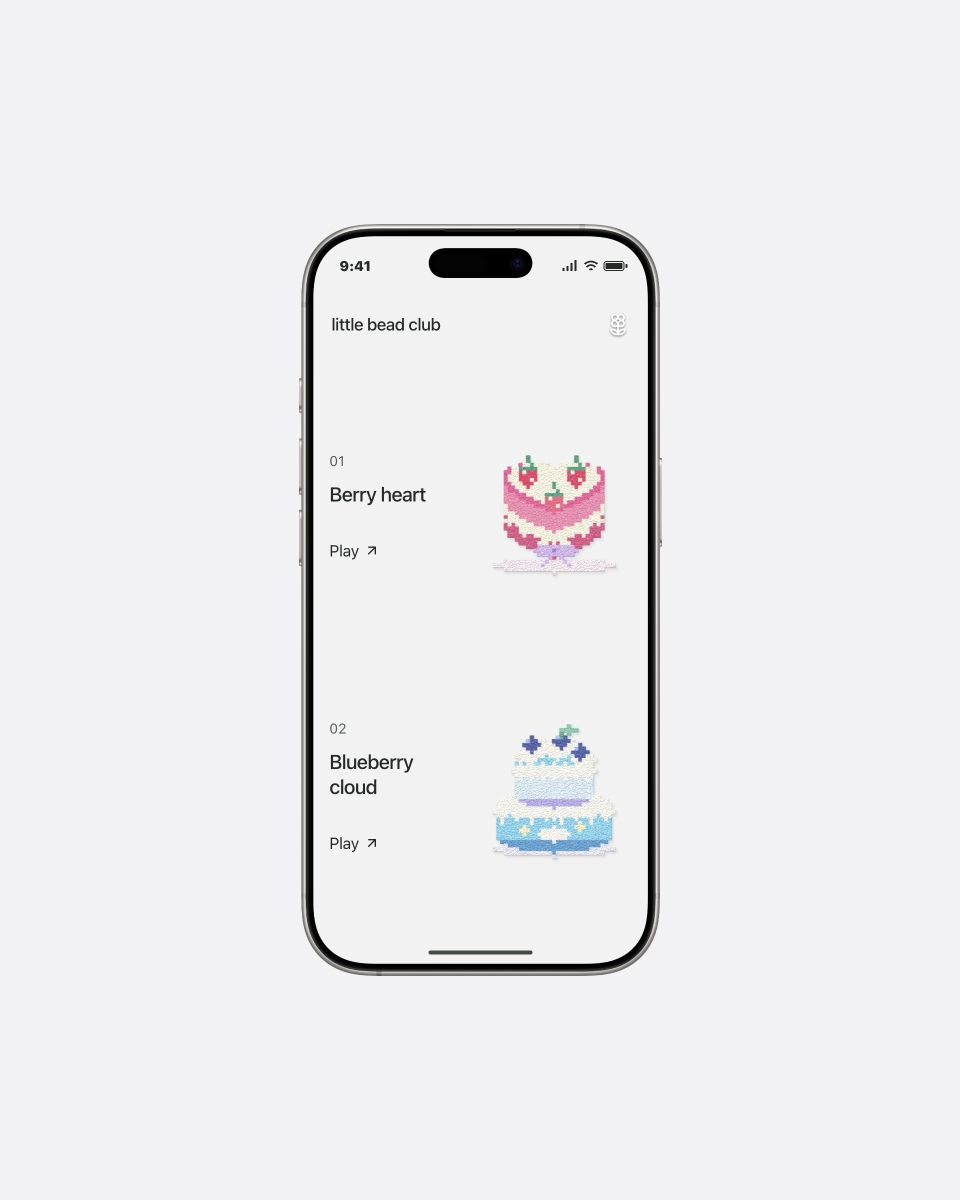
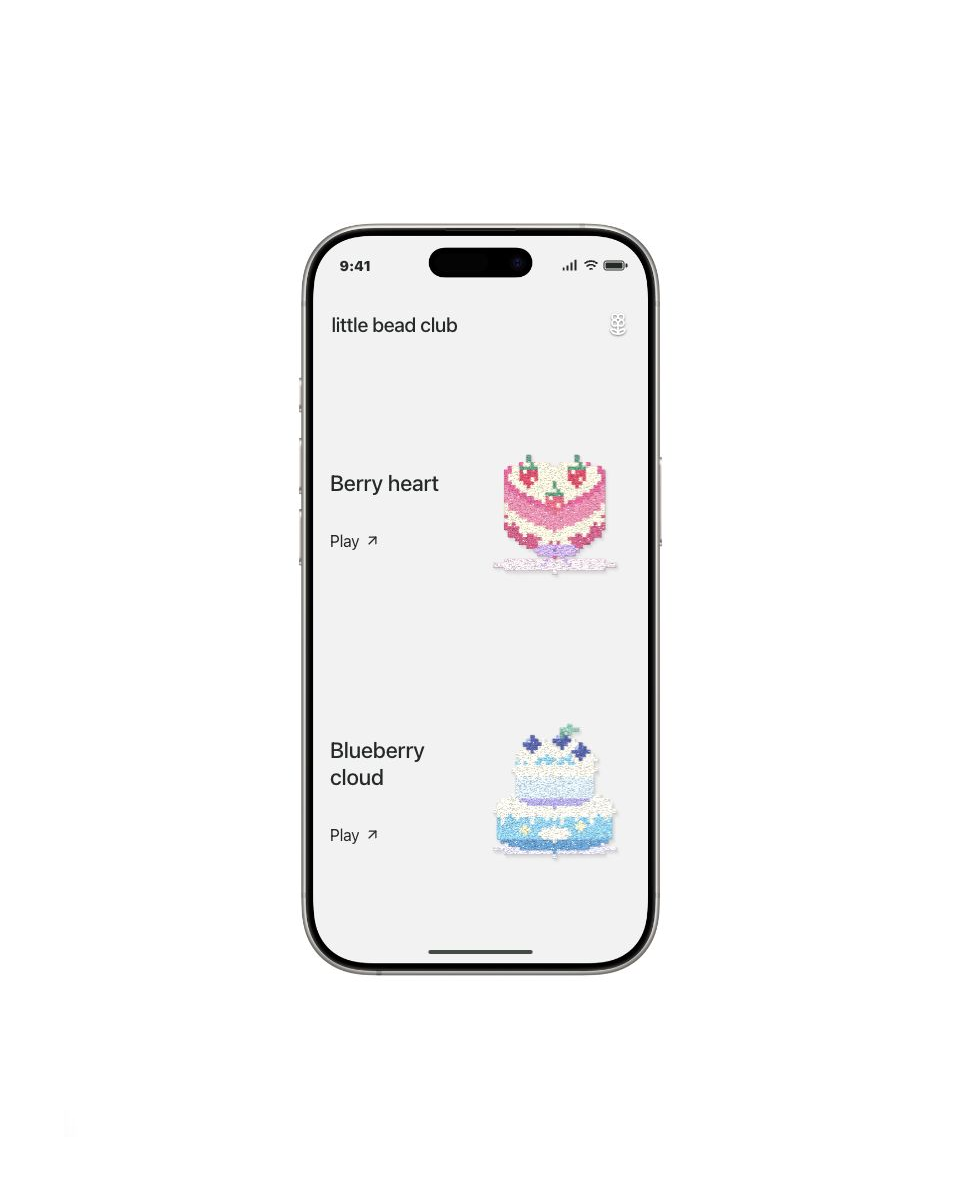
Polish bead material depth and finish minimal playback UI

diff --git a/components/play/bead-club/bead-club.tsx b/components/play/bead-club/bead-club.tsx
@@ -4,7 +4,7 @@ import * as React from "react";
 import * as THREE from "three";
 import { RoomEnvironment } from "three/examples/jsm/environments/RoomEnvironment.js";
 import { AnimatePresence, motion, useReducedMotion } from "framer-motion";
-import { ArrowLeft, ArrowUpRight, Flower2 } from "lucide-react";
+import { ArrowLeft, ArrowUpRight, Flower2, Pause, Play } from "lucide-react";
 
 export type BeadClubProps = {
   /** Plays a quiet demonstration on gallery cards. */
@@ -422,7 +422,7 @@ function terryGrainSurface() {
     normal.data[i + 1] = (ny / length * .5 + .5) * 255;
     normal.data[i + 2] = (1 / length * .5 + .5) * 255; normal.data[i + 3] = 255;
     roughness.data[i] = roughness.data[i + 1] = roughness.data[i + 2] = 255; roughness.data[i + 3] = 255;
-    pigment[y * width + x] = 1 + (h - mean) * .38;
+    pigment[y * width + x] = 1 + (h - mean) * .18;
   }
   ctx.putImageData(normal, 0, 0);
   const normalMap = new THREE.CanvasTexture(pile); normalMap.generateMipmaps = false; normalMap.minFilter = THREE.LinearFilter;
@@ -442,7 +442,7 @@ function terryGrainSurface() {
     facetCtx.fillStyle = `rgb(${Math.round((nx / length * .5 + .5) * 255)},${Math.round((ny / length * .5 + .5) * 255)},${Math.round((1 / length * .5 + .5) * 255)})`;
     for (const target of [sparkleCtx, facetCtx]) {
       const padding = target === facetCtx ? 2 : 0;
-      target.beginPath(); target.ellipse(px, py, 2 + (seed % 5) * .25 + padding, 1.05 + padding, seed % 628 / 100, 0, Math.PI * 2); target.fill();
+      target.beginPath(); target.ellipse(px, py, (seed % 23 === 0 ? 5.5 : 3 + (seed % 5) * .25) + padding, 1.7 + padding, seed % 628 / 100, 0, Math.PI * 2); target.fill();
     }
   }
   const sparkleMap = new THREE.CanvasTexture(sparkleCanvas); sparkleMap.generateMipmaps = false; sparkleMap.minFilter = THREE.LinearFilter;
@@ -513,7 +513,7 @@ function physicalMaterials(art: Artwork): BeadMaterials {
     clearcoat: 1, clearcoatMap: glints.sparkle, clearcoatRoughness: .2,
     clearcoatNormalMap: glints.sparkleNormal, clearcoatNormalScale: new THREE.Vector2(1, 1),
   }) : terry ? new THREE.MeshPhysicalMaterial({
-    map, normalMap: surface.normal, normalScale: new THREE.Vector2(1, 1),
+    map, normalMap: surface.normal, normalScale: new THREE.Vector2(.85, .85),
     color: new THREE.Color(1.23, 1.23, 1.23), roughness: 1, metalness: 0, specularIntensity: .06,
     clearcoat: 1, clearcoatMap: glints.sparkle, clearcoatRoughness: .2,
     clearcoatNormalMap: glints.sparkleNormal, clearcoatNormalScale: new THREE.Vector2(1, 1),
@@ -550,7 +550,7 @@ function getBeadStudio() {
   light.shadow.mapSize.set(512, 512); light.shadow.bias = -.0002; light.shadow.normalBias = .03; light.shadow.radius = 3.5;
   scene.add(light);
   const mesh = new THREE.Mesh(new THREE.BufferGeometry(), new THREE.MeshPhysicalMaterial()); mesh.castShadow = true; mesh.receiveShadow = true; scene.add(mesh);
-  const floor = new THREE.Mesh(new THREE.PlaneGeometry(70, 70), new THREE.ShadowMaterial({ opacity: .12 })); floor.position.z = -.12; floor.receiveShadow = true; scene.add(floor);
+  const floor = new THREE.Mesh(new THREE.PlaneGeometry(70, 70), new THREE.ShadowMaterial({ opacity: .12 })); floor.position.z = -.16; floor.receiveShadow = true; scene.add(floor);
   const camera = new THREE.OrthographicCamera(-23, 23, 23, -23, .1, 180); camera.position.set(0, 0, 95); camera.up.set(0, 1, 0); camera.lookAt(0, 0, 0);
   beadStudio = { renderer, scene, camera, mesh, materials: new Map(), completed: new Map() };
   return beadStudio;
@@ -569,7 +569,7 @@ function drawPhysicalBeads(canvas: HTMLCanvasElement, art: Artwork, count: numbe
   if (!geometry) {
     const uv = (vertices: number[], index: number) => new THREE.Vector2((vertices[index * 3] + 20) / 40, (vertices[index * 3 + 1] + 21) / 42);
     geometry = new THREE.ExtrudeGeometry(fusedShapes(art.beads.slice(0, count)), {
-      depth: .26, curveSegments: 3, bevelEnabled: true, bevelThickness: .07, bevelSize: .1, bevelSegments: 4, steps: 1,
+      depth: .34, curveSegments: 3, bevelEnabled: true, bevelThickness: .13, bevelSize: .14, bevelSegments: 4, steps: 1,
       UVGenerator: { generateTopUV: (_g, vertices, ...indices) => indices.map(i => uv(vertices, i)), generateSideWallUV: (_g, vertices, ...indices) => indices.map(i => uv(vertices, i)) },
     });
     if (count === art.beads.length) studio.completed.set(art.id, geometry);
@@ -634,12 +634,12 @@ function Replay({ art, onBack, reduced }: { art: Artwork; onBack: () => void; re
     <div className="bc-board"><BeadArt art={art} count={Math.floor(progress * art.beads.length)} animated={!reduced && playing} /></div>
     <div className="bc-detail-caption"><h2>{art.name}</h2>
     <div className="bc-playback">
-      <button className="bc-play-button" aria-label="Play" aria-pressed={playing} aria-describedby={statusId} onClick={() => {
+      <button className="bc-play-button" aria-label={playing ? "Pause" : progress >= 1 ? "Replay" : "Play"} aria-pressed={playing} aria-describedby={statusId} onClick={() => {
         if (progress >= 1) { setProgress(0); setPlaying(true); }
         else setPlaying(value => !value);
       }}>
-        <svg className="bc-play-outline" viewBox="0 0 60 60" aria-hidden="true"><circle cx="30" cy="30" r="28.5" fill="none" stroke="#fff" strokeOpacity=".72" strokeWidth="1.5" /><circle className="bc-play-progress" cx="30" cy="30" r="28.5" fill="none" stroke="#3c5044" strokeWidth="2" pathLength="1" strokeDasharray="1" strokeDashoffset={1 - progress} strokeLinecap="round" transform="rotate(-90 30 30)" /></svg>
-        <svg className="bc-play-symbol" width="24" height="24" viewBox="0 0 24 24" aria-hidden="true"><path d="M8 5.8c0-.8.9-1.3 1.6-.9l10.1 6.2a1 1 0 0 1 0 1.8L9.6 19.1c-.7.4-1.6-.1-1.6-.9Z" fill="currentColor" /></svg>
+        <svg className="bc-play-outline" viewBox="0 0 60 60" aria-hidden="true"><circle cx="30" cy="30" r="28.5" fill="none" stroke="#78827b" strokeWidth="1.5" /><circle className="bc-play-progress" cx="30" cy="30" r="28.5" fill="none" stroke="#3c5044" strokeWidth="2" pathLength="1" strokeDasharray="1" strokeDashoffset={1 - progress} strokeLinecap="round" transform="rotate(-90 30 30)" /></svg>
+        {playing ? <Pause className="bc-play-symbol" size={22} fill="currentColor" aria-hidden="true" /> : <Play className="bc-play-symbol" size={23} fill="currentColor" aria-hidden="true" />}
       </button>
       <span className="bc-sr-only" id={statusId} role="status">{progress >= 1 ? "Pattern complete." : playing ? "Playing pattern animation." : "Animation paused."}</span>
     </div></div>
@@ -683,8 +683,8 @@ export function BeadClub({ loop = false, className }: BeadClubProps) {
         <div className="bc-collection" inert={!!selected}>
           <header className="bc-header"><span>little bead club</span><Flower2 className="bc-flower" size={24} strokeWidth={1.8} aria-hidden="true" /></header>
           <div className="bc-list" aria-label="Bead collection">
-            {artworks.map((art, index) => <button className="bc-card" key={art.id} onClick={event => { lastCard.current = event.currentTarget; setSelectedId(art.id); }} aria-label={`Open ${art.name}`}>
-              <div className="bc-card-copy"><span className="bc-number">{String(index + 1).padStart(2, "0")}</span><h2>{art.name}</h2><span className="bc-card-link">Play <ArrowUpRight size={16} /></span></div>
+            {artworks.map(art => <button className="bc-card" key={art.id} onClick={event => { lastCard.current = event.currentTarget; setSelectedId(art.id); }} aria-label={`Open ${art.name}`}>
+              <div className="bc-card-copy"><h2>{art.name}</h2><span className="bc-card-link">Play <ArrowUpRight size={16} /></span></div>
               <div className="bc-art-panel"><BeadArt art={art} /></div>
             </button>)}
           </div>
@@ -709,11 +709,11 @@ const styles = `
 
 .bc-status{height:55px;position:relative;display:flex;align-items:center;justify-content:space-between;padding:4px clamp(15px,6cqw,24px) 0 clamp(16px,6.7cqw,26px);z-index:12;font-size:14px;font-weight:600;color:#242a26;background:transparent}.bc-indicators{display:flex;align-items:center;gap:5px}.bc-battery{width:21px;height:10px;border-radius:3px;border:1px solid currentColor;position:relative}.bc-battery:before{content:'';position:absolute;inset:1px;background:currentColor;border-radius:1px}.bc-battery:after{content:'';position:absolute;width:2px;height:4px;right:-4px;top:2px;background:currentColor;border-radius:1px}
 .bc-header::before,.bc-detail-nav::before{content:'';position:absolute;left:0;right:0;top:-55px;bottom:-28px;z-index:-1;background:transparent;backdrop-filter:blur(14px);-webkit-backdrop-filter:blur(14px);mask-image:linear-gradient(#000 0%,#000 68%,transparent 100%);-webkit-mask-image:linear-gradient(#000 0%,#000 68%,transparent 100%);pointer-events:none}
-.bc-screen[data-detail="true"] .bc-collection{visibility:hidden}.bc-collection{position:relative;height:calc(100% - 55px);display:flex;flex-direction:column}.bc-header{position:absolute;left:0;right:0;top:0;z-index:8;min-height:78px;color:#242a26;padding:14px 18px 26px;display:flex;align-items:center;justify-content:space-between;gap:8px;font-size:1.0625rem;font-weight:500;letter-spacing:-.35px}.bc-flower{flex-shrink:0;color:#fff;filter:drop-shadow(0 1px 1px #28362a99)}.bc-list{flex:1;min-height:0;overflow:auto;overscroll-behavior:contain;padding:94px 16px 72px;scrollbar-width:none;scroll-padding:16px 0 72px}.bc-list::-webkit-scrollbar{display:none}
-.bc-card{width:100%;border:0;background:transparent;padding:0;margin:0 0 28px;display:grid;grid-template-columns:minmax(0,1fr) minmax(0,1.2fr);gap:10px;text-align:left;align-items:center;scroll-margin:16px 0 72px}.bc-card-copy{padding:12px 0;display:flex;flex-direction:column;align-items:flex-start;min-width:0;overflow-wrap:anywhere}.bc-number{font-size:.875rem;color:#535e56;letter-spacing:.2px}.bc-card h2{font-size:1.25rem;line-height:1.25;font-weight:500;margin:10px 0 10px;letter-spacing:-.4px}.bc-card-link{display:flex;align-items:center;gap:5px;font-size:1rem;line-height:1.5;min-height:44px;margin-top:12px}.bc-art-panel{height:252px;position:relative;overflow:hidden;display:flex;align-items:center;justify-content:center;background:transparent}.bc-art{width:100%;height:100%;display:block;overflow:visible;filter:drop-shadow(.5px 3px 1.5px #493d3033)}.bc-art-3d{position:relative;filter:none}.bc-art-3d>canvas{position:absolute;inset:0}.bc-art-panel>.bc-art{width:100%;height:100%;transition:transform .5s}.bc-card:hover .bc-art{transform:translateY(-2px)}
+.bc-screen[data-detail="true"] .bc-collection{visibility:hidden}.bc-collection{position:relative;height:calc(100% - 55px);display:flex;flex-direction:column}.bc-header{position:absolute;left:0;right:0;top:0;z-index:8;min-height:78px;color:#242a26;padding:14px 18px 26px;display:flex;align-items:center;justify-content:space-between;gap:8px;font-size:1.25rem;font-weight:500;letter-spacing:-.35px}.bc-flower{flex-shrink:0;color:#fff;filter:drop-shadow(0 1px 1px #28362a99)}.bc-list{flex:1;min-height:0;overflow:auto;overscroll-behavior:contain;padding:94px 16px 72px;scrollbar-width:none;scroll-padding:16px 0 72px}.bc-list::-webkit-scrollbar{display:none}
+.bc-card{width:100%;border:0;background:transparent;padding:0;margin:0 0 28px;display:grid;grid-template-columns:minmax(0,1fr) minmax(0,1.2fr);gap:10px;text-align:left;align-items:center;scroll-margin:16px 0 72px}.bc-card-copy{padding:12px 0;display:flex;flex-direction:column;align-items:flex-start;min-width:0;overflow-wrap:anywhere}.bc-card h2{font-size:1.375rem;line-height:1.25;font-weight:500;margin:10px 0 10px;letter-spacing:-.4px}.bc-card-link{display:flex;align-items:center;gap:5px;font-size:1rem;line-height:1.5;min-height:44px;margin-top:12px}.bc-art-panel{height:252px;position:relative;overflow:hidden;display:flex;align-items:center;justify-content:center;background:transparent}.bc-art{width:100%;height:100%;display:block;overflow:visible;filter:drop-shadow(.5px 3px 1.5px #493d3033)}.bc-art-3d{position:relative;filter:none}.bc-art-3d>canvas{position:absolute;inset:0}.bc-art-panel>.bc-art{width:100%;height:100%;transition:transform .5s}.bc-card:hover .bc-art{transform:translateY(-2px)}
 .bc-home{position:absolute;width:104px;height:4px;border-radius:4px;background:#424b45;bottom:9px;left:50%;transform:translateX(-50%);z-index:10}
 .bc-glass-edge{position:absolute;bottom:0;left:51%;right:0;height:90px;pointer-events:none;z-index:6;background:transparent}.bc-glass-edge i{position:absolute;inset:0;backdrop-filter:blur(2px);-webkit-backdrop-filter:blur(2px);mask-image:linear-gradient(transparent,#000);-webkit-mask-image:linear-gradient(transparent,#000)}.bc-glass-edge i:nth-child(2){top:25px;backdrop-filter:blur(5px);-webkit-backdrop-filter:blur(5px)}.bc-glass-edge i:nth-child(3){top:54px;backdrop-filter:blur(9px);-webkit-backdrop-filter:blur(9px)}.bc-screen[data-detail="true"] .bc-glass-edge{height:32px}
 .bc-glass-reflection{position:absolute;inset:0;border-radius:inherit;z-index:7;pointer-events:none;box-shadow:inset 0 0 2px #fff4}
-.bc-detail{position:absolute;inset:55px 0 0;background:${APP_BACKGROUND};z-index:4;overflow-y:auto;scrollbar-width:none;padding-bottom:58px}.bc-detail-nav{position:sticky;top:0;z-index:8;min-height:56px;display:flex;align-items:center;padding:0 12px;color:#fff}.bc-icon{width:44px;height:44px;min-width:44px;min-height:44px;border:1px solid #fff9;background:#ffffff24;backdrop-filter:blur(10px) saturate(1.25);-webkit-backdrop-filter:blur(10px) saturate(1.25);box-shadow:inset 1px 1px 1px #fffc,0 3px 9px #17231a0b;display:grid;place-items:center;border-radius:50%}.bc-icon svg{filter:drop-shadow(0 1px 1px #28362acc)}.bc-board{height:330px;margin:0 10px;position:relative;padding:8px 0;display:flex;justify-content:center;align-items:center}.bc-board .bc-art{width:100%;height:100%}.bc-detail-caption{display:flex;align-items:center;justify-content:space-between;gap:16px;padding:20px 22px 0}.bc-detail-caption h2{flex:1;min-width:0;font-size:1.375rem;line-height:1.35;font-weight:500;letter-spacing:-.4px;margin:0;overflow-wrap:anywhere}.bc-playback{flex:0 0 auto;position:relative}.bc-play-button{position:relative;display:grid;place-items:center;width:60px;height:60px;aspect-ratio:1;border:0;border-radius:50%;background:linear-gradient(145deg,#ffffff80,#ffffff20 48%,#ffffff45);backdrop-filter:blur(12px) saturate(1.3);-webkit-backdrop-filter:blur(12px) saturate(1.3);box-shadow:inset 1px 1px 1px #fffe,inset -1px -1px 2px #ffffff80,0 5px 16px #24372b12;color:#304236;padding:0;flex-shrink:0}.bc-play-button::before{content:'';position:absolute;inset:2px;border-radius:50%;background:radial-gradient(ellipse at 28% 14%,#ffffff90,transparent 65%);pointer-events:none}.bc-play-button[aria-pressed="true"]{box-shadow:inset 1px 1px 1px #fff,inset -1px -1px 3px #ffffff80,0 3px 12px #24372b16}.bc-play-outline{position:absolute;inset:0;width:100%;height:100%;pointer-events:none}.bc-play-symbol{position:relative;margin-left:2px}.bc-play-progress{transition:stroke-dashoffset .08s linear}
+.bc-detail{position:absolute;inset:55px 0 0;background:${APP_BACKGROUND};z-index:4;overflow-y:auto;scrollbar-width:none;padding-bottom:58px}.bc-detail-nav{position:sticky;top:0;z-index:8;min-height:56px;display:flex;align-items:center;padding:0 12px;color:#fff}.bc-icon{width:44px;height:44px;min-width:44px;min-height:44px;border:1px solid #fff9;background:#4e5b53cc;backdrop-filter:blur(10px) saturate(1.25);-webkit-backdrop-filter:blur(10px) saturate(1.25);box-shadow:inset 1px 1px 1px #fffc,0 3px 9px #17231a0b;display:grid;place-items:center;border-radius:50%}.bc-icon svg{filter:drop-shadow(0 1px 1px #28362acc)}.bc-board{height:330px;margin:0 10px;position:relative;padding:8px 0;display:flex;justify-content:center;align-items:center}.bc-board .bc-art{width:100%;height:100%}.bc-detail-caption{display:flex;align-items:center;justify-content:space-between;gap:16px;padding:20px 22px 0}.bc-detail-caption h2{flex:1;min-width:0;font-size:1.375rem;line-height:1.35;font-weight:500;letter-spacing:-.4px;margin:0;overflow-wrap:anywhere}.bc-playback{flex:0 0 auto;position:relative}.bc-play-button{position:relative;display:grid;place-items:center;width:60px;height:60px;aspect-ratio:1;border:0;border-radius:50%;background:linear-gradient(145deg,#ffffff80,#ffffff20 48%,#ffffff45);backdrop-filter:blur(12px) saturate(1.3);-webkit-backdrop-filter:blur(12px) saturate(1.3);box-shadow:inset 1px 1px 1px #fffe,inset -1px -1px 2px #ffffff80,0 5px 16px #24372b12;color:#304236;padding:0;flex-shrink:0}.bc-play-button::before{content:'';position:absolute;inset:2px;border-radius:50%;background:radial-gradient(ellipse at 28% 14%,#ffffff90,transparent 65%);pointer-events:none}.bc-play-button[aria-pressed="true"]{box-shadow:inset 1px 1px 1px #fff,inset -1px -1px 3px #ffffff80,0 3px 12px #24372b16}.bc-play-outline{position:absolute;inset:0;width:100%;height:100%;pointer-events:none}.bc-play-symbol{position:relative;margin-left:0}.bc-play-symbol.lucide-play{margin-left:2px}.bc-play-progress{transition:stroke-dashoffset .08s linear}
 
 .bc-bead-drop{animation:bc-place .24s cubic-bezier(.2,.65,.3,1) both}@keyframes bc-place{from{opacity:0;transform:translateY(-.5px)}to{opacity:1;transform:translateY(0) scale(1)}}@container(max-width:280px){.bc-indicators{gap:3px}.bc-indicators svg{width:13px}.bc-battery{width:18px}}@media(prefers-reduced-motion:reduce){.bc-stage *{animation:none!important;transition:none!important}}`;
